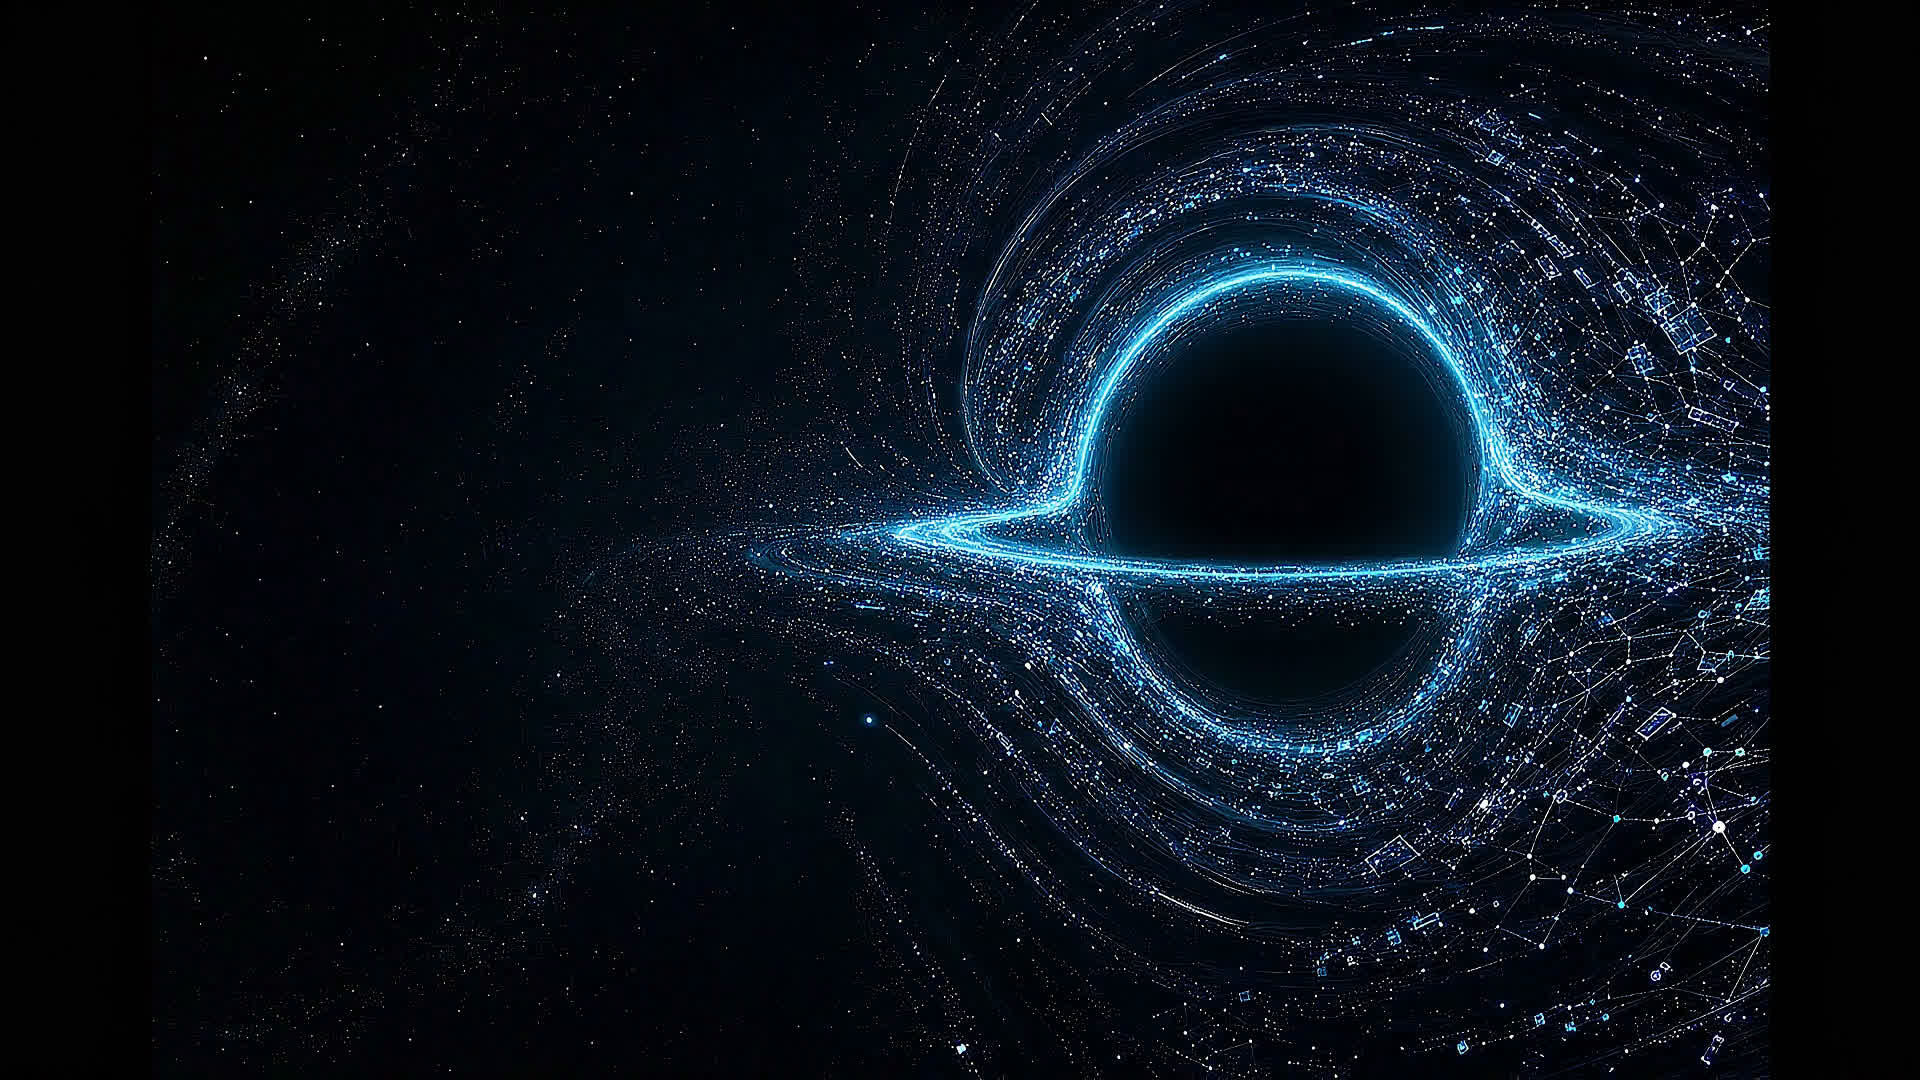
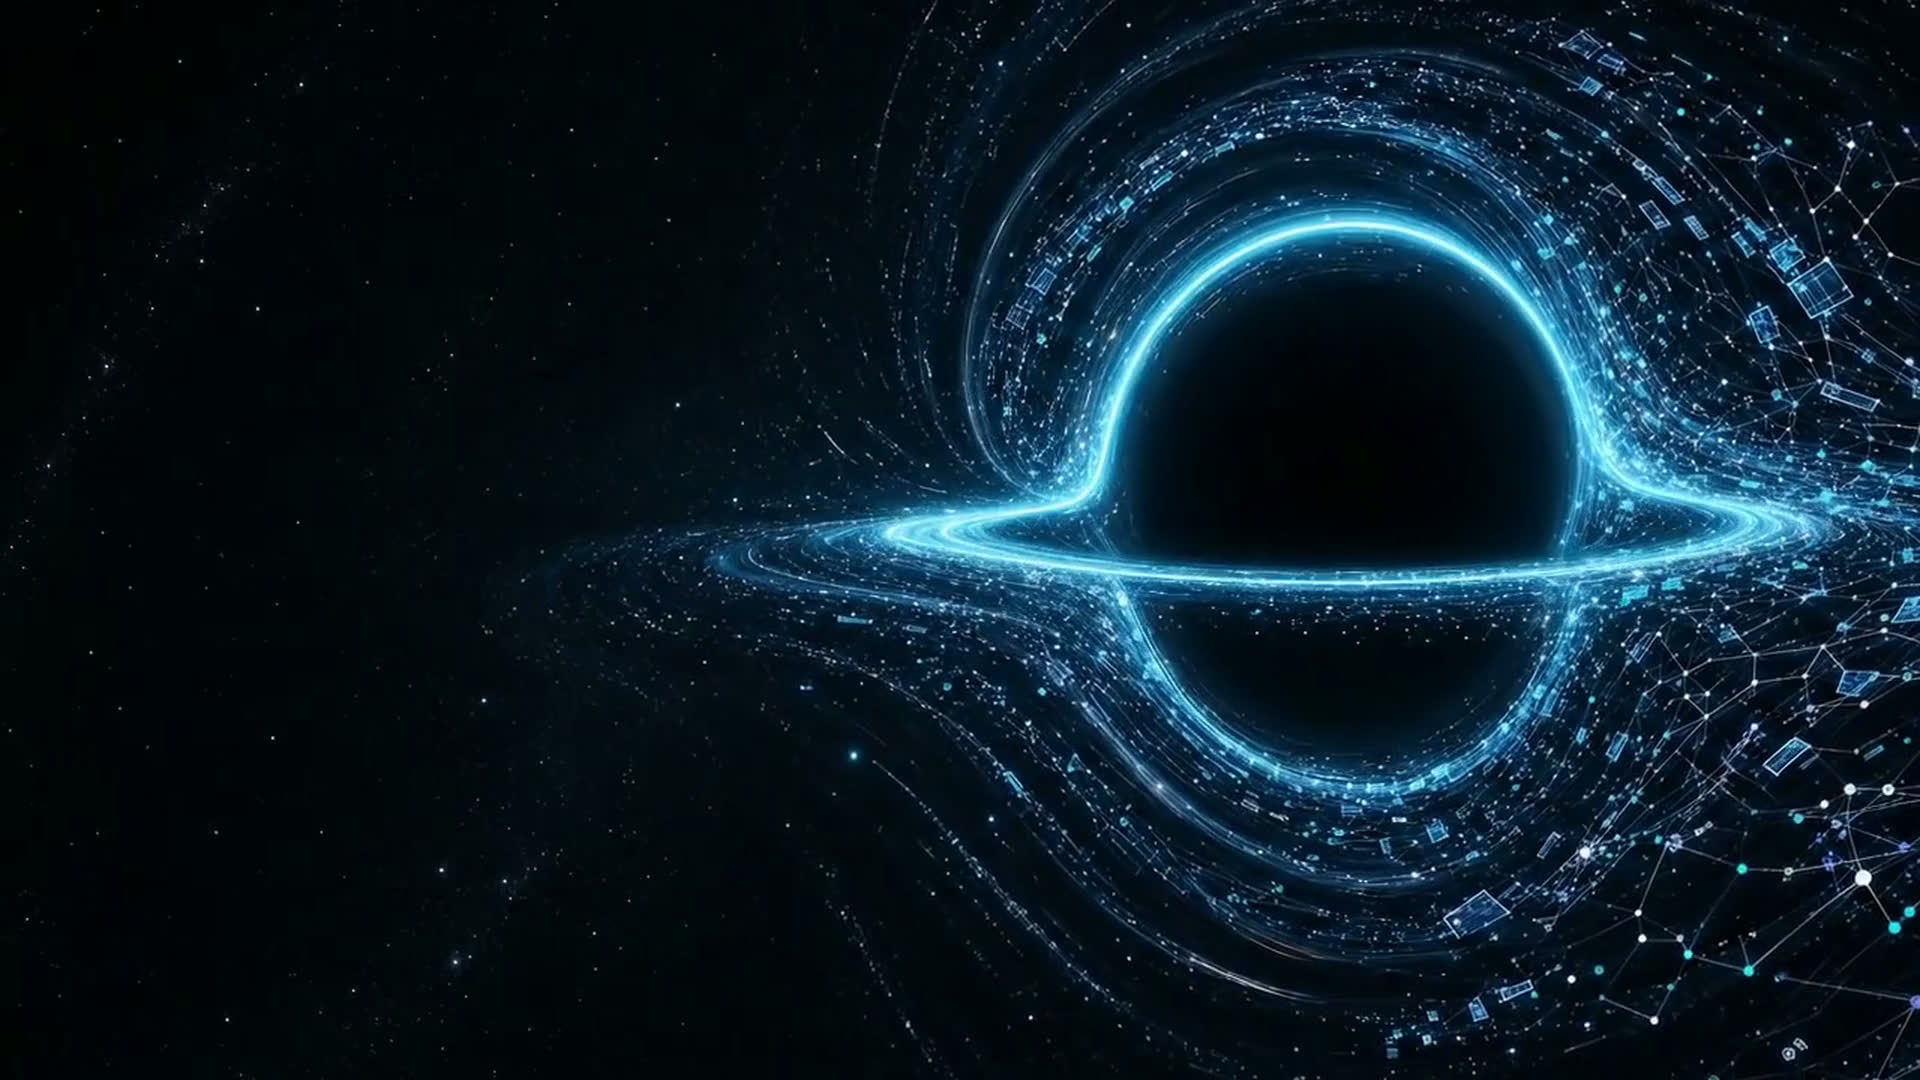
assets(hero): switch desktop take to Omni r1 per user direction; docs(hero): postflight logs
Desktop media re-encoded from gemini-omni-flash-preview refinement round 1
(user-selected aesthetic; Veo 3.1 alternates retained locally). Loop wrap SSIM
0.952, all budgets met (webm 2.2MB / mp4 4.3MB / posters 83+178KB). AGENT.md +
CHANGELOG.md postflight entries added per the Raouf Change Protocol.

diff --git a/AGENT.md b/AGENT.md
@@ -40,6 +40,14 @@ Before making any code changes, agents MUST:
 
 ---
 
+### Raouf: 2026-07-17 (Australia/Sydney) — Hero: "The Verification Horizon" — responsive AI-generated cinematic hero (native 16:9 + 9:16 compositions)
+
+- **Scope**: Replace the single-asset black-hole hero with a flagship two-composition cinematic: a singularity whose accretion structure is made of evidence — verification-graph nodes, signed-fragment glyphs, fine data paths — unstable fragments dissolve at the horizon while verified ones join the cyan ring ("claims disappear, evidence survives"). Full pipeline: design spec → gpt-image-2 concept tournament → image-to-video → measured loop engineering → responsive integration.
+- **Summary**: (1) **Masters** — 18-candidate tournament (3 concept families × 3 variants × native desktop 1536×1024 + portrait 1024×1536, `gpt-image-2` quality high), scored on 10 dimensions; winners: family-A "Verification Horizon" pair (scorecard + all raw candidates retained locally under gitignored `artifacts/`). (2) **Motion** — mobile: `gemini-omni-flash-preview` image-to-video + 1 conversational refinement (camera lock, subtler pulse, loop tail), 24-frame tail→head crossfade loop, 7 s/24 fps, wrap SSIM 0.946. Desktop: Omni failed the locked-camera gate across the full 3-round refinement sequence (lateral drift ±8%); `veo-3.1-generate-preview` fallback (first=last=master, 1080p) was generated ×3 and evaluated, but the **user selected the Omni r1 aesthetic** as the final desktop take — loop = 24-frame crossfade, 7 s, wrap SSIM 0.952; all alternates + interaction/operation IDs retained in the local asset manifest. (3) **Encode** — VP9 2-pass + H.264 veryslow/faststart + AVIF/JPG posters extracted from frame 0 of the final encodes (poster==first frame → invisible poster→video transition). Desktop 1920×1080: webm 2.2 MB, mp4 4.3 MB, posters 83/178 KB. Mobile 1080×1920: webm 1.8 MB, mp4 3.2 MB, posters 84/164 KB. All within budget; dark-gradient banding QC'd on boosted crops. (4) **Component** — `HeroVideo.tsx` rewritten: orientation matchMedia selects the native asset (exactly one `<video>`/one decode, key-swap remount on flip), poster-first paint via `<picture>` AVIF→JPG with video fade-in on first decoded frame (`requestVideoFrameCallback`) so no black flash, `navigator.connection.saveData` and `prefers-reduced-motion` users stay on the poster, per-composition scrims (landscape left-column shield at 72%/43%; portrait bottom-weighted), RTL `scaleX(-1)` mirror/IO-pause/`aria-hidden` contract preserved. New `HeroVideo.test.tsx` (8 tests: orientation sources, poster, reduced-motion, single decoder, RTL mirror both ways, a11y). Also fixed the pre-existing `Footer.test.tsx` failure (asserted "MAY 2026" vs the July footer sync's "JUL 2026"). Old `hero-singularity.*` removed in the integration commit (rollback = revert it).
+- **Files Changed**: `public/hero-verification-{desktop,mobile}.{webm,mp4}` + `-poster.{avif,jpg}` (new), `public/hero-singularity.{mp4,webm}` + poster (deleted), `src/components/ui/HeroVideo.tsx`, `src/components/ui/HeroVideo.test.tsx` (new), `src/components/layout/Footer.test.tsx`, `.gitignore` (`/artifacts/`), `docs/superpowers/specs/2026-07-17-verification-horizon-hero-design.md` (new), `AGENT.md`, `CHANGELOG.md`
+- **Verification**: prettier pass; `npm run lint` 0 errors; `typecheck` pass; `test:ci` **76/76** (68 + 8 new); `build` 155 pages, all 8 media files emitted to `out/`. Served `out/` and verified in Chromium: 390×844, 430×932, 768×1024 (native portrait asset auto-selected, one video), 1440×900, 1920×1080, 2560×1440 (landscape asset), `/fa` RTL mirrored correctly with legible Persian copy, video playing with poster-first reveal (opacity 0→1 after first decoded frame), loop wrap ×2 observed with 0 stalls, 0 console errors (only pre-existing font-preload warnings), CSP untouched (`media-src 'self'` satisfied by local assets). Loop seams inspected frame-by-frame (montages under `artifacts/`).
+- **Follow-ups**: (1) Firefox/WebKit not driven locally (Chromium-only tooling) — MP4+JPG paths cover Safari; spot-check after deploy. (2) Pre-existing, unrelated to media: at short viewports (~900 px) the July copy block tucks the SYSTEM ONLINE badge under the navbar — consider trimming hero copy or tightening spacing. (3) Desktop asset is a 720p→1080p lanczos upscale (Omni output ceiling) — if a 1080p-native re-render is ever wanted, the Veo alternates are retained locally.
+
 ### Raouf: 2026-07-17 (Australia/Sydney) — Full repo sweep + 4-locale translation of the new résumé narrative
 
 - **Scope**: Second pass after the EN sync: swept `src` for remaining stale markers and translated all changed strings into fa/ar/es/zh for content parity.
@@ -114,7 +122,7 @@ Before making any code changes, agents MUST:
 
 ### Raouf: 2026-07-05 (Australia/Sydney) — Hero video: full-bleed via blurred backdrop layer (fill empty band without zooming)
 
-- **Scope**: Follow-up to the object-contain change — user wanted the hero to fill the screen (the contain letterbox left an empty dark band top/bottom) but *without* re-zooming/cropping the black hole.
+- **Scope**: Follow-up to the object-contain change — user wanted the hero to fill the screen (the contain letterbox left an empty dark band top/bottom) but _without_ re-zooming/cropping the black hole.
 - **Summary**: These two goals conflict for a single layer (a 2.34:1 clip can't fill a full-height hero without cropping or distortion), so `HeroVideo.tsx` now stacks two copies of the same loop: a **blurred, over-scaled `object-cover` backdrop** (`scale-125 blur-2xl opacity-50`) fills the entire hero so there's no empty band, and the existing sharp **`object-contain` copy** sits on top showing the black hole uncropped/un-zoomed. Both play off the same file (second request served from cache) and are driven together by the existing effect, refactored to sync an array of video refs through the same reduced-motion + IntersectionObserver pause logic. The backdrop is `tabIndex={-1}` and the wrapper stays `aria-hidden`. RTL mirror + scrim + scanline layers unchanged; the scrim/text-shadow keep the intro copy legible over the now-filled background.
 - **Files Changed**: `src/components/ui/HeroVideo.tsx`, `AGENT.md`, `CHANGELOG.md`
 - **Verification**: `prettier --check`/`lint`/`typecheck`: pass; `test:ci`: 68/68; `build`: 155 pages. Screenshotted the build in headless Chrome at 1440×900 and 390×844 — full-bleed with no empty letterbox band, black hole uncropped, soft blurred cosmic fill in the former empty space, text legible at both sizes.

diff --git a/CHANGELOG.md b/CHANGELOG.md
@@ -2,6 +2,14 @@
 
 ## [Unreleased]
 
+### Raouf: 2026-07-17 (Australia/Sydney) — Hero: "The Verification Horizon" — responsive AI-generated cinematic hero (native 16:9 + 9:16 compositions)
+
+- **Scope**: Replace the single-asset black-hole hero with a flagship two-composition cinematic: a singularity whose accretion structure is made of evidence — verification-graph nodes, signed-fragment glyphs, fine data paths — unstable fragments dissolve at the horizon while verified ones join the cyan ring ("claims disappear, evidence survives"). Full pipeline: design spec → gpt-image-2 concept tournament → image-to-video → measured loop engineering → responsive integration.
+- **Summary**: (1) **Masters** — 18-candidate tournament (3 concept families × 3 variants × native desktop 1536×1024 + portrait 1024×1536, `gpt-image-2` quality high), scored on 10 dimensions; winners: family-A "Verification Horizon" pair (scorecard + all raw candidates retained locally under gitignored `artifacts/`). (2) **Motion** — mobile: `gemini-omni-flash-preview` image-to-video + 1 conversational refinement (camera lock, subtler pulse, loop tail), 24-frame tail→head crossfade loop, 7 s/24 fps, wrap SSIM 0.946. Desktop: Omni failed the locked-camera gate across the full 3-round refinement sequence (lateral drift ±8%); `veo-3.1-generate-preview` fallback (first=last=master, 1080p) was generated ×3 and evaluated, but the **user selected the Omni r1 aesthetic** as the final desktop take — loop = 24-frame crossfade, 7 s, wrap SSIM 0.952; all alternates + interaction/operation IDs retained in the local asset manifest. (3) **Encode** — VP9 2-pass + H.264 veryslow/faststart + AVIF/JPG posters extracted from frame 0 of the final encodes (poster==first frame → invisible poster→video transition). Desktop 1920×1080: webm 2.2 MB, mp4 4.3 MB, posters 83/178 KB. Mobile 1080×1920: webm 1.8 MB, mp4 3.2 MB, posters 84/164 KB. All within budget; dark-gradient banding QC'd on boosted crops. (4) **Component** — `HeroVideo.tsx` rewritten: orientation matchMedia selects the native asset (exactly one `<video>`/one decode, key-swap remount on flip), poster-first paint via `<picture>` AVIF→JPG with video fade-in on first decoded frame (`requestVideoFrameCallback`) so no black flash, `navigator.connection.saveData` and `prefers-reduced-motion` users stay on the poster, per-composition scrims (landscape left-column shield at 72%/43%; portrait bottom-weighted), RTL `scaleX(-1)` mirror/IO-pause/`aria-hidden` contract preserved. New `HeroVideo.test.tsx` (8 tests: orientation sources, poster, reduced-motion, single decoder, RTL mirror both ways, a11y). Also fixed the pre-existing `Footer.test.tsx` failure (asserted "MAY 2026" vs the July footer sync's "JUL 2026"). Old `hero-singularity.*` removed in the integration commit (rollback = revert it).
+- **Files Changed**: `public/hero-verification-{desktop,mobile}.{webm,mp4}` + `-poster.{avif,jpg}` (new), `public/hero-singularity.{mp4,webm}` + poster (deleted), `src/components/ui/HeroVideo.tsx`, `src/components/ui/HeroVideo.test.tsx` (new), `src/components/layout/Footer.test.tsx`, `.gitignore` (`/artifacts/`), `docs/superpowers/specs/2026-07-17-verification-horizon-hero-design.md` (new), `AGENT.md`, `CHANGELOG.md`
+- **Verification**: prettier pass; `npm run lint` 0 errors; `typecheck` pass; `test:ci` **76/76** (68 + 8 new); `build` 155 pages, all 8 media files emitted to `out/`. Served `out/` and verified in Chromium: 390×844, 430×932, 768×1024 (native portrait asset auto-selected, one video), 1440×900, 1920×1080, 2560×1440 (landscape asset), `/fa` RTL mirrored correctly with legible Persian copy, video playing with poster-first reveal (opacity 0→1 after first decoded frame), loop wrap ×2 observed with 0 stalls, 0 console errors (only pre-existing font-preload warnings), CSP untouched (`media-src 'self'` satisfied by local assets). Loop seams inspected frame-by-frame (montages under `artifacts/`).
+- **Follow-ups**: (1) Firefox/WebKit not driven locally (Chromium-only tooling) — MP4+JPG paths cover Safari; spot-check after deploy. (2) Pre-existing, unrelated to media: at short viewports (~900 px) the July copy block tucks the SYSTEM ONLINE badge under the navbar — consider trimming hero copy or tightening spacing. (3) Desktop asset is a 720p→1080p lanczos upscale (Omni output ceiling) — if a 1080p-native re-render is ever wanted, the Veo alternates are retained locally.
+
 ### Raouf: 2026-07-17 (Australia/Sydney) — Full repo sweep + 4-locale translation: propagate the new résumé narrative to SEO/JSON-LD and translate all changed strings into fa/ar/es/zh
 
 - **Scope**: Second pass after the EN résumé/About/home sync. (1) File-by-file sweep for any remaining stale-narrative markers across `src`. (2) Translate every changed string into the four non-English locales so content parity matches structural parity.
@@ -16,7 +24,7 @@
 - **Summary**: Value-only edits to `src/i18n/locales/en.ts` (no key changes, so 5-locale Dictionary parity and tests hold). Résumé block: new `tagline`, `location` (ready to relocate now to SF, travel-ready DC), `s01_bio` (containment-attestation summary with 138/138, 9/140→0/140, 5 Lean theorems), `proj1` Simurgh reframed from "zero-trust integrity API" to verifiable containment attestation (tag INTEGRITY→CONTAINMENT, new stack + numbers + DOIs), `exp1` Freelance retitled and bullet 3 now the Airtasker 5.0/31-review credential, `s07` now "AI Safety, Leadership & Community" (Alignerr 2026 evaluator, Persian Society cofounder, Anthropic + Macquarie certs), `s08_available` (relocate now / final semester online / visa). About page `bio_1..3` reframed to the current identity while keeping the Invisible Window + Aion lineage. Home `ticker` refreshed (containment attestation, agent red-teaming, Anthropic safety evaluator, incubator startup, ready-to-relocate) and `hero_subtitle` aligned. Footer `last_index_value` MAY→JUL 2026. **Only the English locale was updated**; fa/ar/es/zh still carry the older translated copy (same keys, so no breakage) and are flagged for a follow-up translation pass.
 - **Files Changed**: `src/i18n/locales/en.ts`, `AGENT.md`, `CHANGELOG.md`
 - **Verification**: `npx prettier --write`; `npm run lint` (0 errors); `npm run typecheck` pass (all 5 locales satisfy `Dictionary`); `npm run test:ci` 68/68; `npm run build` succeeded. Built `out/en/resume.html` confirmed to contain "containment-attestation framework", "5.0-star rating across 31 client reviews", "Ready to relocate now to San Francisco", and "Macquarie Persian Students Society".
-- **Follow-ups**: Deploy via `npm run build && npx wrangler pages deploy out --project-name raoufabedini --branch main`. Translate the updated résumé/About/home strings into fa/ar/es/zh for locale parity of *content* (currently only structural parity). Optionally refresh the About `spec*` skill lists and `s03` proficiencies to foreground agent red-teaming.
+- **Follow-ups**: Deploy via `npm run build && npx wrangler pages deploy out --project-name raoufabedini --branch main`. Translate the updated résumé/About/home strings into fa/ar/es/zh for locale parity of _content_ (currently only structural parity). Optionally refresh the About `spec*` skill lists and `s03` proficiencies to foreground agent red-teaming.
 
 ### Raouf: 2026-07-17 (Australia/Sydney) — Syllabus-Sync: mark as accepted into Macquarie University Incubator (formal startup) + swap demo link to production domain
 